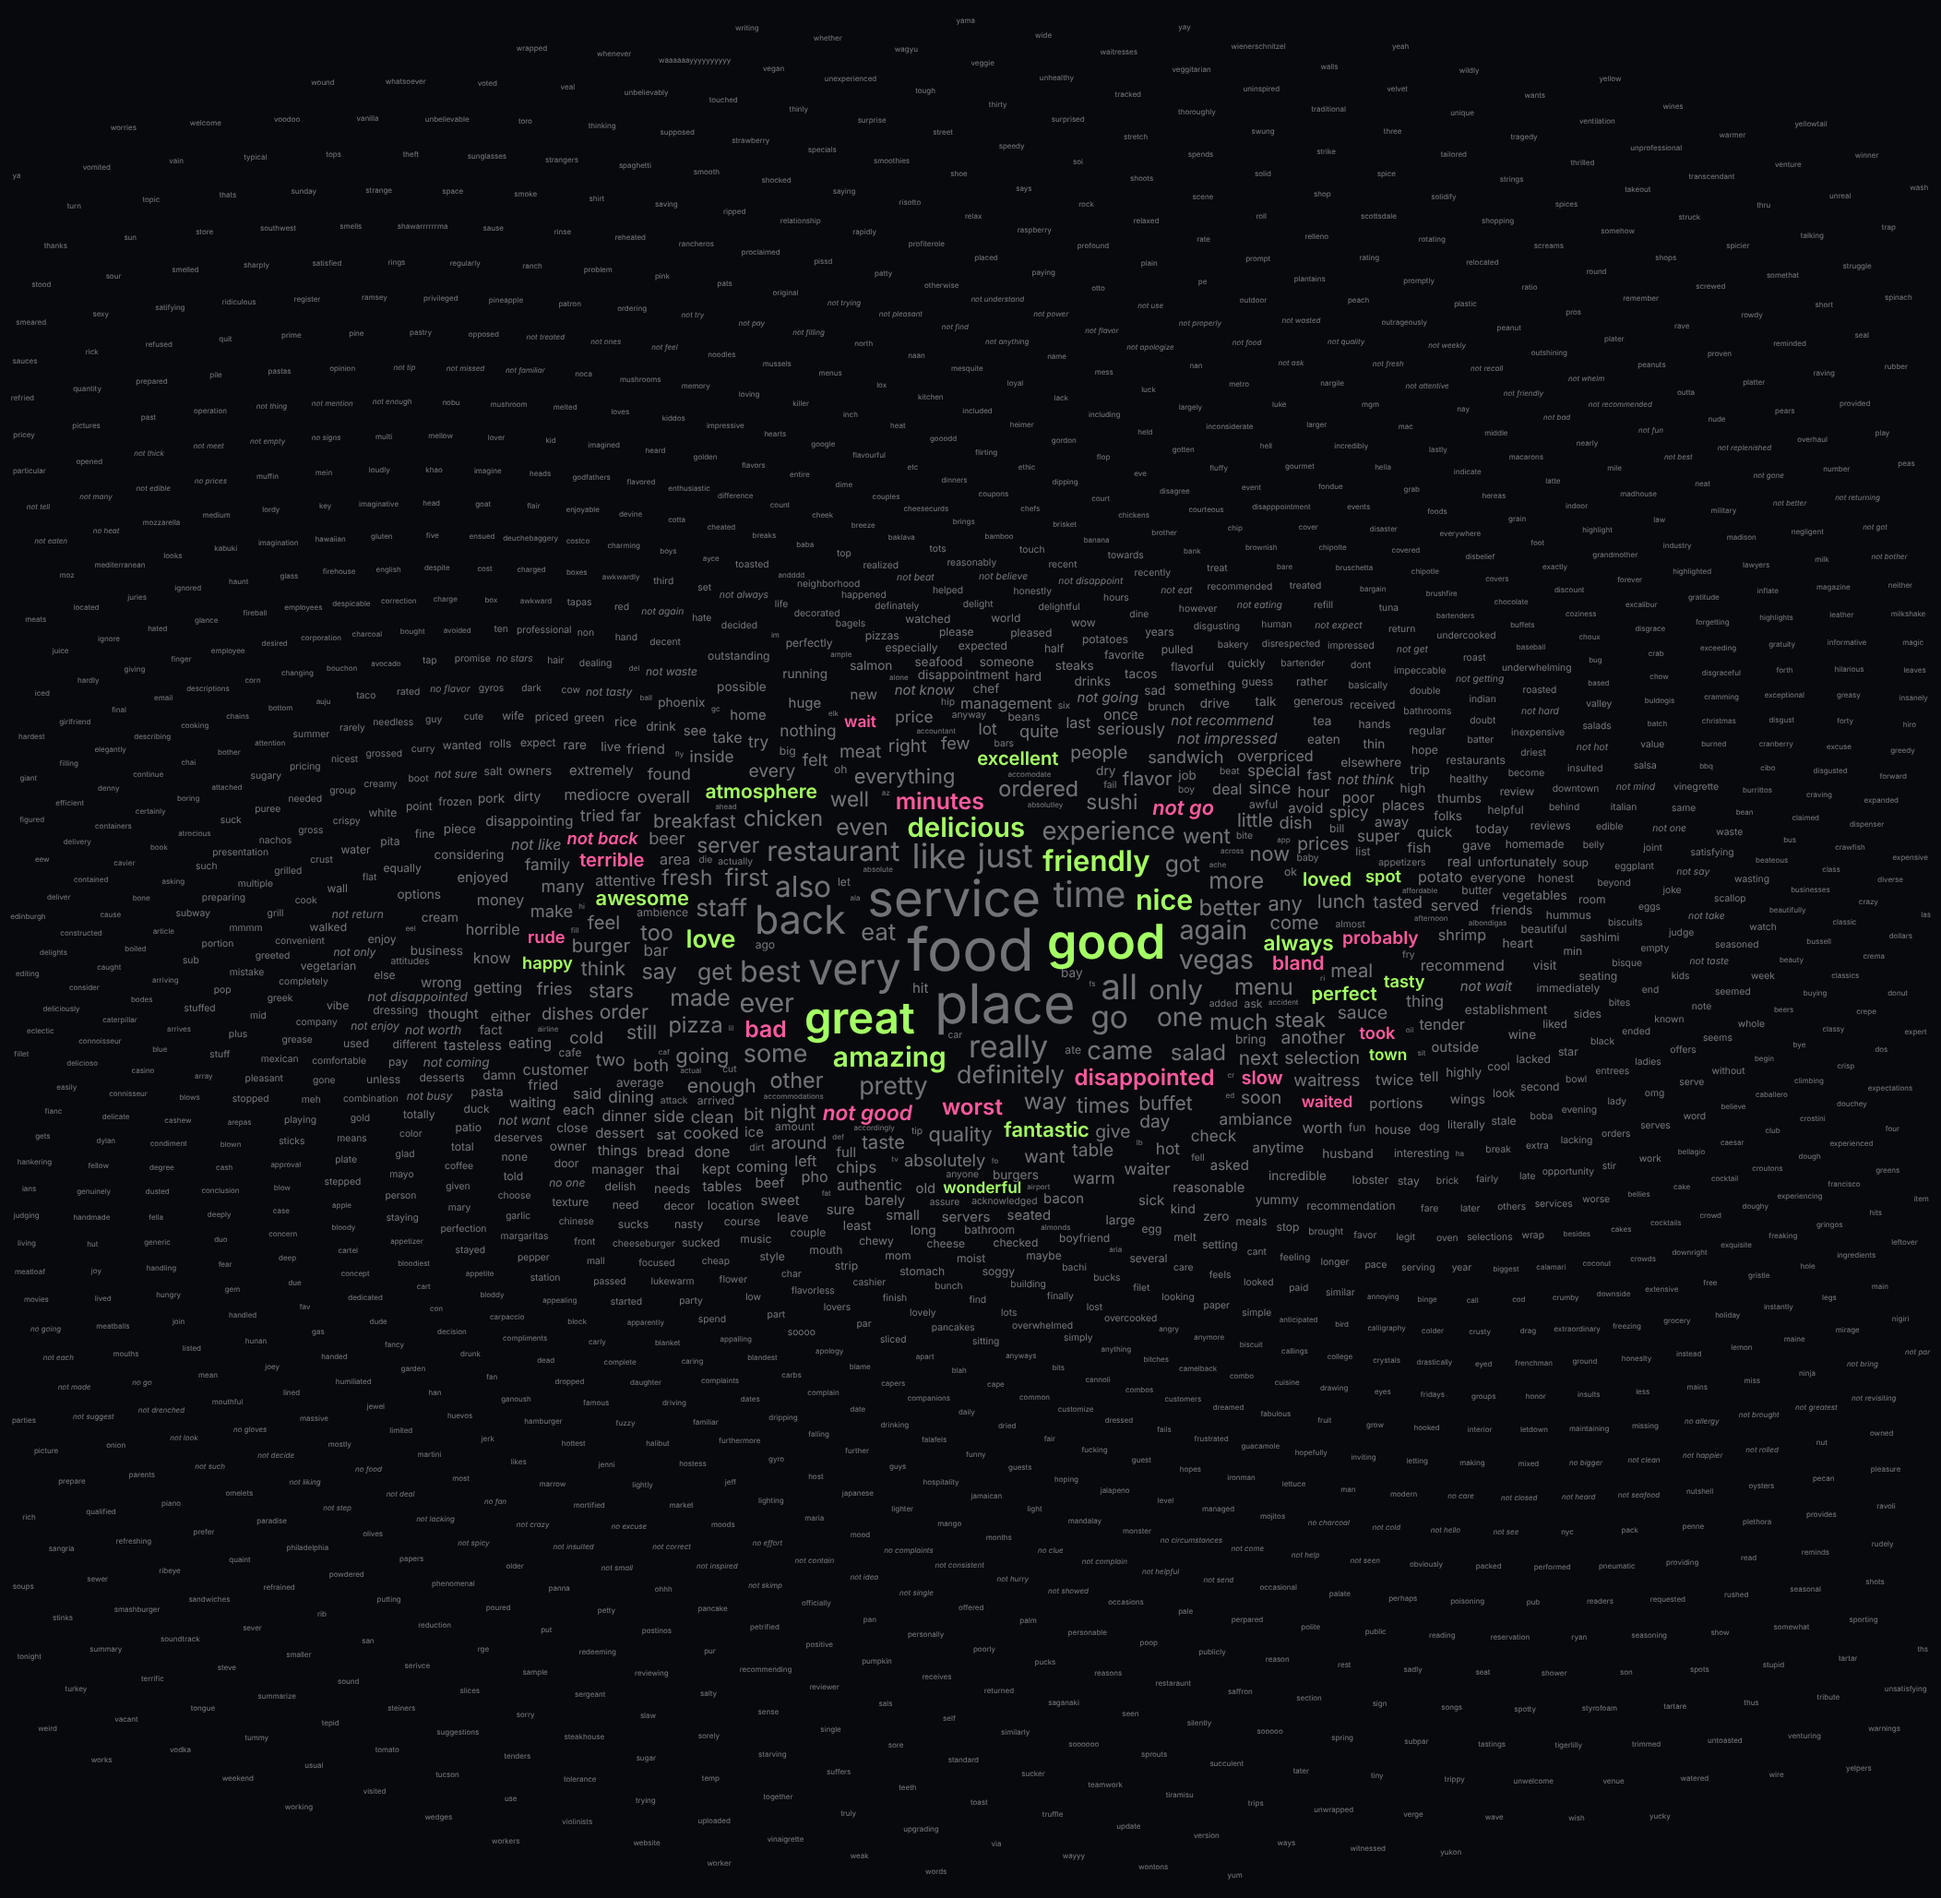
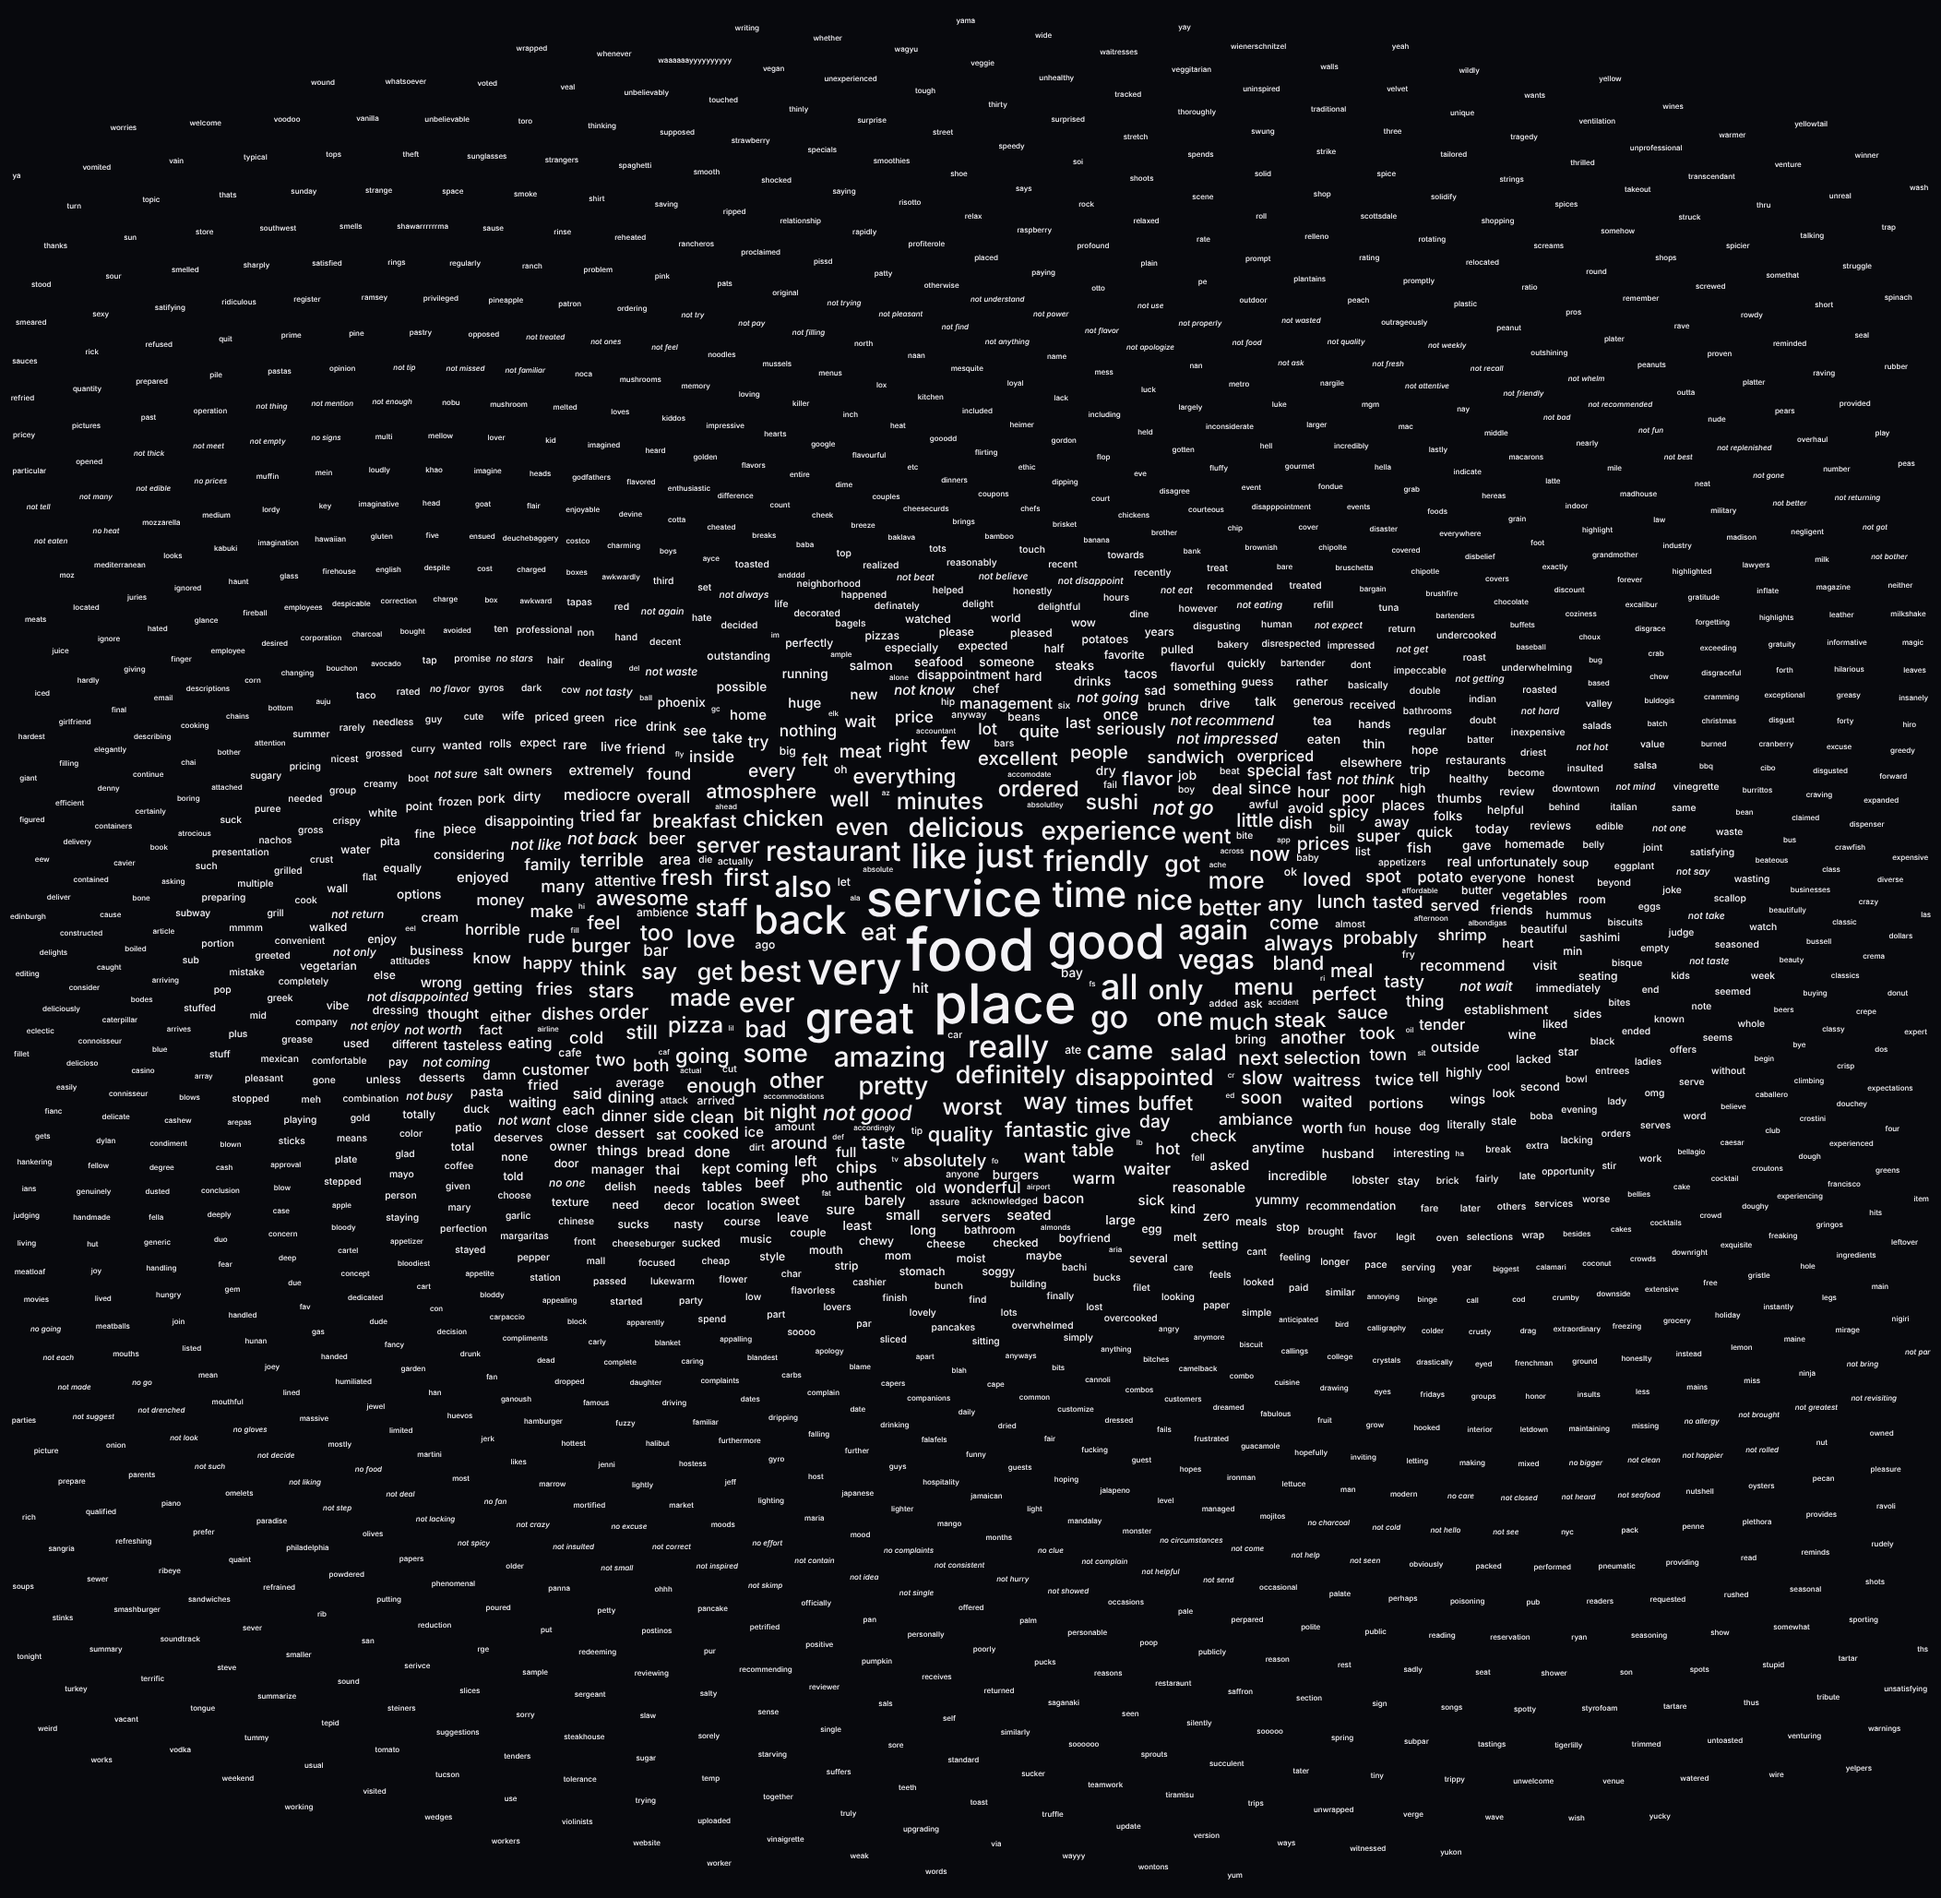
2-2: drop the Ours panel, examples drawn in plain white
Claude-Session: https://claude.ai/code/session_01XfXTRYxfC9nU9fWRErDxS3

diff --git a/presentation/index.html b/presentation/index.html
@@ -107,10 +107,9 @@
       <h2>Selecting Words</h2>
       <div class="why-grid">
         <figure class="w1"><img src="img/why_nostop.png" alt="Dining cloud with grammar words kept: the, and, was, is take the centre"><figcaption><b>1 · Grammar words kept</b><span><i>the</i> (450 of 1,000 sentences), <i>and</i>, <i>was</i> take the centre and push judging words out.</span></figcaption></figure>
-        <figure class="w2"><img src="img/why_all.png" alt="Dining cloud with all 2,002 words: most are tiny grey words"><figcaption><b>2 · Every word kept</b><span>2,002 words. To fit, the smallest shrink to 4 px; the cloud becomes grey noise.</span></figcaption></figure>
-        <figure class="w3"><img src="img/why_ours.png" alt="Our Dining cloud: 164 words"><figcaption><b>3 · Ours</b><span>Grammar words removed, 7 sentences or more: 164 words.</span></figcaption></figure>
+        <figure class="w2"><img src="img/why_all.png" alt="Dining cloud with all 2,002 words: most are tiny grey words"><figcaption><b>2 · Every word kept</b><span>2,002 words. To fit, the smallest shrink to 4 px and the cloud turns into noise.</span></figcaption></figure>
       </div>
-      <aside class="notes">Same Dining data, same code, three rules. Our question is which words people use to praise and to complain; grammar words answer nothing and the long tail drowns the answer. Image 2 lowers the minimum font to 4 px only so that all 2,002 words fit.</aside>
+      <aside class="notes">Same Dining data, same code, two rules switched off. Our question is which words people use to praise and to complain; grammar words answer nothing and the long tail drowns the answer. Image 2 lowers the minimum font to 4 px only so that all 2,002 words fit.</aside>
     </section>
 
     <section class="slide" data-menu="2">

diff --git a/student-guide/index.html b/student-guide/index.html
@@ -112,7 +112,7 @@ Not tasty and the texture was just nasty.<span class="tab">⇥</span>0</pre>
       <p lang="zh">我们的问题是：<b>人们称赞时用哪些词，抱怨时用哪些词？</b>词云空间有限，保留的每个词都应帮助回答这个问题。如果全部保留，会出现两个问题（餐饮评论）：</p>
       <div class="why-pair">
         <figure><img src="img/why_nostop.png" alt=""><figcaption lang="en"><b>Grammar words kept.</b> <em>the</em> (450 of 1,000 sentences), <em>and</em> and <em>was</em> take the centre. They appear in praise and complaint alike.</figcaption><figcaption lang="zh"><b>保留语法词。</b><em>the</em>（1,000 句中 450 句）、<em>and</em>、<em>was</em> 占据中心。它们在称赞和抱怨中出现得一样多。</figcaption></figure>
-        <figure><img src="img/why_all.png" alt=""><figcaption lang="en"><b>Every word kept.</b> 2,002 words; to fit, the smallest shrink to 4 px and the cloud turns into grey noise.</figcaption><figcaption lang="zh"><b>保留所有词。</b>共 2,002 个词；为了放下，最小的缩到 4 像素，词云变成一片灰色噪声。</figcaption></figure>
+        <figure><img src="img/why_all.png" alt=""><figcaption lang="en"><b>Every word kept.</b> 2,002 words; to fit, the smallest shrink to 4 px and the cloud turns into noise.</figcaption><figcaption lang="zh"><b>保留所有词。</b>共 2,002 个词；为了放下，最小的缩到 4 像素，词云变成一片噪声。</figcaption></figure>
       </div>
       <p lang="en">So we set rules from the question: preprocessing decides what we count, and a filter later decides what we show.</p>
       <p lang="zh">因此我们根据问题制定规则：预处理决定统计什么，之后的过滤决定显示什么。</p>

diff --git a/presentation/style.css b/presentation/style.css
@@ -429,9 +429,9 @@ details.wordlist dt.skip { color: var(--praise); }
 details.wordlist dd { margin: 0; color: #cfced8; font: 14px/1.55 var(--mono); }
 details.wordlist p { margin: 12px 0 0; color: var(--muted); font-size: 14px !important; }
 
-.why-grid { display: grid; grid-template-columns: 1.15fr 1fr; grid-template-rows: 1fr 1fr; gap: 14px 22px; height: calc(60vh / var(--k, 1)); margin-top: 6px; }
+.why-grid { display: grid; grid-template-columns: 1.6fr 1fr; grid-template-rows: 1fr; gap: 14px 22px; height: calc(60vh / var(--k, 1)); margin-top: 6px; }
 .why-grid figure { margin: 0; display: flex; flex-direction: column; min-height: 0; padding: 12px; border: 1px solid var(--rule); border-radius: 6px; background: #07080b; }
-.why-grid .w2 { grid-column: 2; grid-row: 1 / 3; }
+.why-grid .w2 { grid-column: 2; grid-row: 1; }
 .why-grid .w3 { grid-column: 1; grid-row: 2; border-color: #3b4a2e; }
 .why-grid img { flex: 1; min-height: 0; width: 100%; object-fit: contain; }
 .why-grid figcaption { margin-top: 8px; font-size: clamp(13px, 1vw, 16px); line-height: 1.4; color: #cfced8; }
